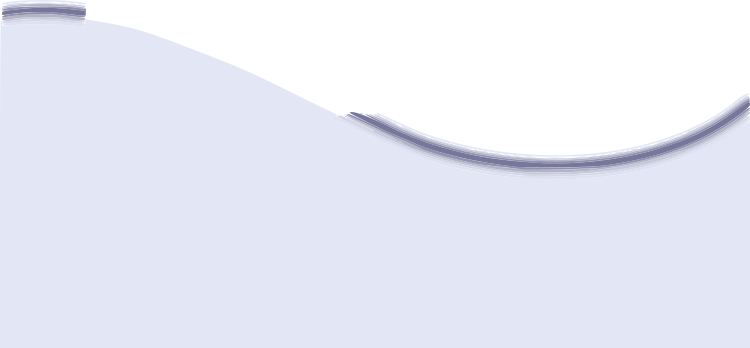
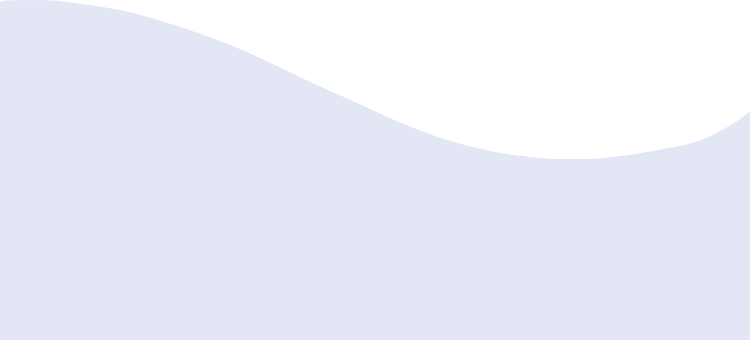
Footer fonctionnel du panier

Changed region(s): [[0.0, 0.0, 1.0, 0.5]]

diff --git a/src/app/panier/panier.page.html b/src/app/panier/panier.page.html
@@ -1,6 +1,6 @@
 <ion-header>
     <app-header></app-header>
-    <ion-title class="title">panier</ion-title>
+        <ion-title class="title"><img alt="logo" height="20" src="../../assets/images/BT_Logo.png"/>Le Bateau de Thibault</ion-title>
 </ion-header>
 
 <ion-content fullscreen="true">
@@ -19,13 +19,25 @@
     <div class="container ion-float-right">
         <ion-label class="price">Prix Total</ion-label>
         <br />
-        <ion-button class="valider-button">Valider</ion-button>
+        
     </div>
 </ion-content>
 <ion-footer class="ion-no-border">
-    <ion-toolbar>
-        <div class="total-container">
-        </div>
-    </ion-toolbar>
+        <ion-grid class="footer-grid">
+            <ion-row class="row-container">
+                <ion-col class="ion-align-self-left">
+                    <div class="total-container">
+                        <h2>Total : 50€</h2>
+                        <ion-button class="valider-button">Valider</ion-button>
+                    </div>
+                </ion-col>
+                <ion-col class="ion-align-self-end">
+                    <div class="site-container">
+                        <h3>Point Relais</h3>
+                        <h5>La maison du Poulet</h5>
+                    </div>
+                </ion-col>
+            </ion-row>
+        </ion-grid>
 </ion-footer>
 

diff --git a/src/app/panier/panier.page.scss b/src/app/panier/panier.page.scss
@@ -4,7 +4,10 @@ ion-content {
 
 .title {
     color: white;
+    font-family:'Savoye LET';
 }
+
+
 
 .panier-list {
     border-color : transparent !important;
@@ -26,11 +29,38 @@ ion-content {
 
 .valider-button {
     --background: #fe881c;
-    margin-top: 35px;
+    width: 150px;
 }
 
-.ion-no-border {
-    --background: url(../../assets/images/BT_Total.png) no-repeat center fixed;
-    min-height: 10em;
-    background-size: 100% auto;
+ion-footer {
+    height: 30%;
+    background: url(../../assets/images/BT_Total.png);
+    background-repeat: no-repeat;
+    background-size: cover;
 }
+
+.total-container {
+    margin-top: 50px;
+    margin-left: 10px;
+}
+
+
+.footer-grid {
+    height:100%;
+}
+
+.row-container {
+    display: flex;
+    align-items: center;
+    justify-content: center;
+    height: 100%;
+}
+
+.total-container {
+    text-align : center;
+}
+
+.site-container {
+    text-align: center;
+}
+

diff --git a/src/theme/variables.scss b/src/theme/variables.scss
@@ -1,10 +1,7 @@
 // Ionic Variables and Theming. For more info, please see:
 // http://ionicframework.com/docs/theming/
 @import "fonts";
-:root{
-  --ion-font-family:"Savoye LET",serif !important;
-  font-family: "Savoye LET",serif !important;
-}
+
 /** Ionic CSS Variables **/
 :root {
 

diff --git a/src/theme/fonts.scss b/src/theme/fonts.scss
@@ -2,5 +2,5 @@
     font-family: 'Savoye LET';
     font-style: normal;
     font-weight: normal;
-    src: url('../assets/fonts/savoyelet/Savoye\ LET\ Plain1.0.ttf');
+    src: url('../assets/fonts/savoyelet/Savoye-LET-Plain1.0.ttf');
   }
